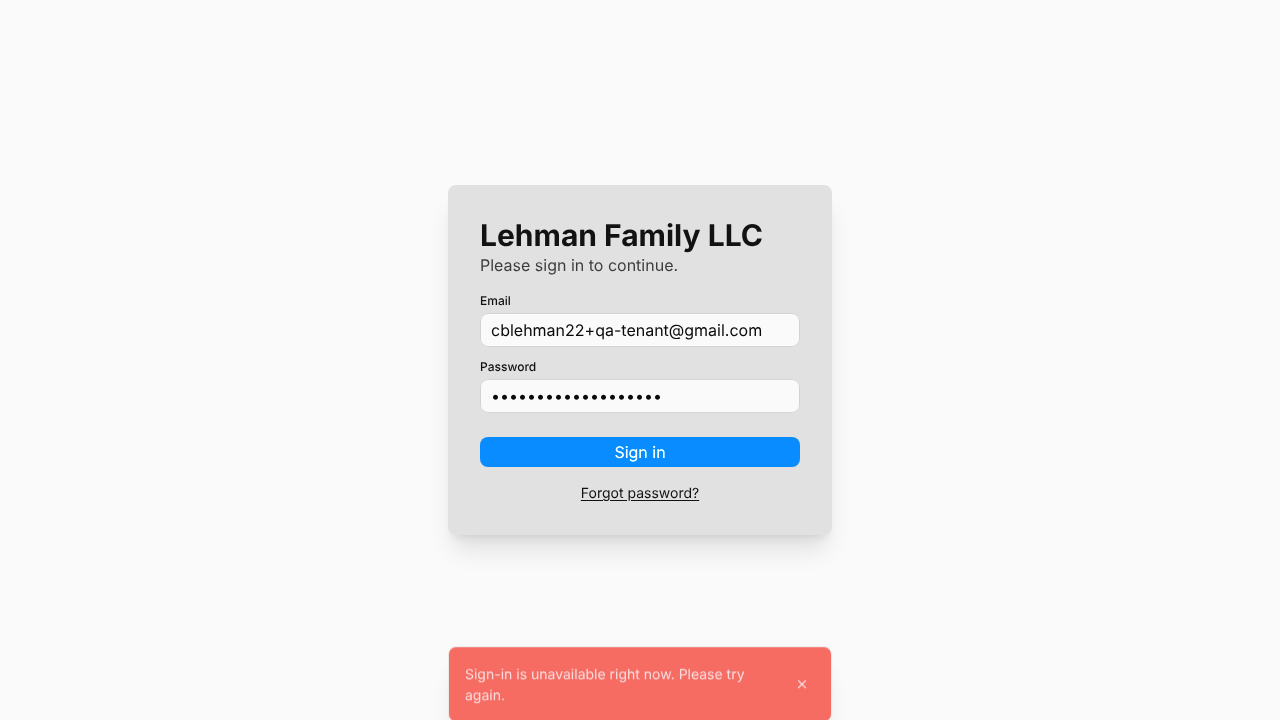
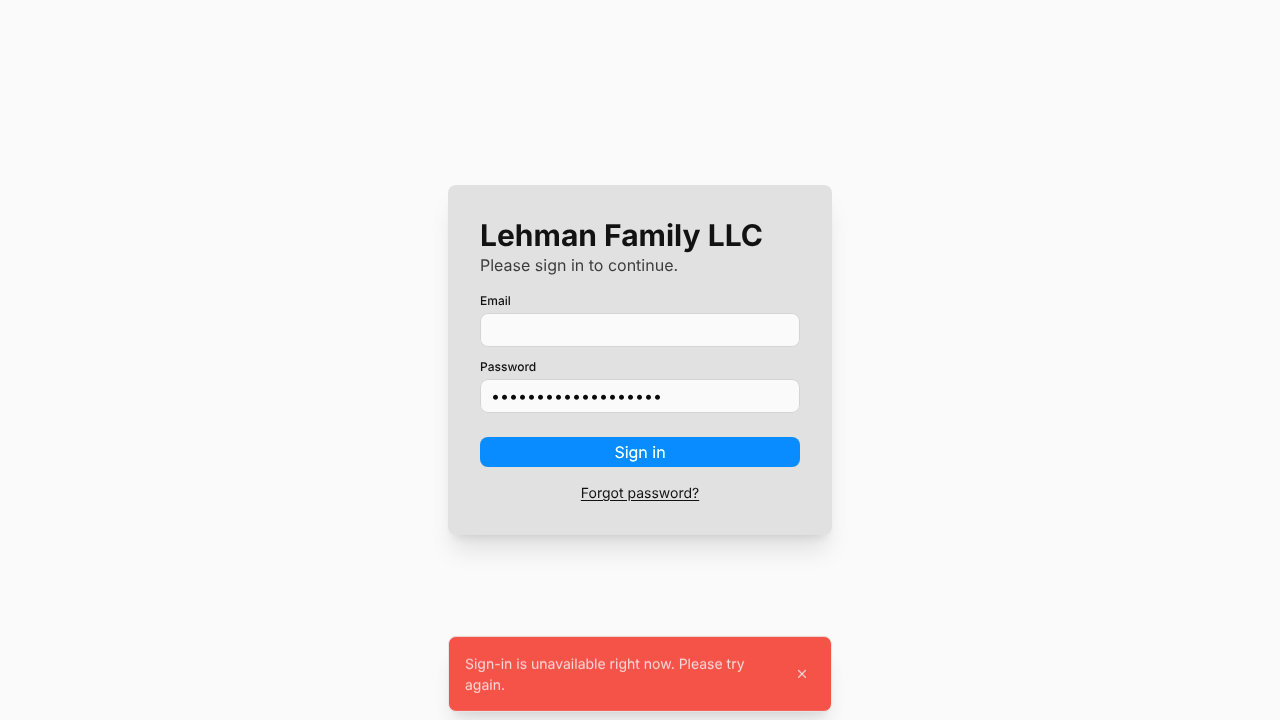
QA evidence cycle 1: password-reset-and-signin
Claude-Session: https://claude.ai/code/session_012Ze6orux4NADLTvPMLn5eE

Changed region(s): [[0.3438, 0.8861, 0.6562, 1.0], [0.375, 0.4278, 0.5938, 0.4889]]

diff --git a/tests/qa/password-reset-and-signin/authentication.spec.ts b/tests/qa/password-reset-and-signin/authentication.spec.ts
@@ -1,7 +1,16 @@
 import { test, expect, type Page } from '@playwright/test';
 
 const SHOTS = 'openspec/changes/password-reset-and-signin/qa/screenshots';
-const shot = (page: Page, name: string) => page.screenshot({ path: `${SHOTS}/${name}.png` });
+// Never capture QA account values: hide the contents of any input holding the QA emails/passwords.
+const shot = async (page: Page, name: string) => {
+	const secrets = [process.env.QA_ADMIN_EMAIL, process.env.QA_TENANT_EMAIL].filter(Boolean) as string[];
+	await page.evaluate((vals) => {
+		document.querySelectorAll('input').forEach((i) => {
+			if (vals.includes((i as HTMLInputElement).value)) (i as HTMLInputElement).style.color = 'transparent';
+		});
+	}, secrets).catch(() => undefined);
+	await page.screenshot({ path: `${SHOTS}/${name}.png` });
+};
 const runId = Date.now().toString(36);
 const unknown = (tag: string) => `qa-${tag}-${runId}@example.com`;
 
@@ -31,7 +40,8 @@ async function signInUi(page: Page, email: string, password: string) {
 test.describe('session establishment', () => {
 	test('Successful sign-in + Cookie lifetime (admin)', async ({ page, context }) => {
 		await signInUi(page, need('QA_ADMIN_EMAIL'), need('QA_ADMIN_PASSWORD'));
-		await page.waitForURL((u) => u.pathname === '/', { timeout: 20000 });
+		// '/' may redirect an admin onward to their home (/admin); the sign-in page must be left.
+		await page.waitForURL((u) => u.pathname === '/' || u.pathname.startsWith('/admin'), { timeout: 20000 });
 		const c = (await context.cookies()).find((x) => x.name === '__session');
 		expect(c).toBeTruthy();
 		expect(c!.httpOnly).toBe(true);
@@ -56,6 +66,7 @@ test.describe('session establishment', () => {
 
 	test('Invalid credentials', async ({ page }) => {
 		await signInUi(page, need('QA_TENANT_EMAIL'), 'Wrong-password-1!');
+		await page.waitForTimeout(500);
 		await expect(page.getByText(MSG.wrong)).toBeVisible({ timeout: 15000 });
 		await expect(page).toHaveURL(/\/signin/);
 		await shot(page, 'authentication-invalid-credentials');
@@ -201,8 +212,9 @@ test.describe('forgot page', () => {
 		await expect(page).toHaveURL(/\/forgot$/);
 		await page.getByTitle('Email').fill(unknown('forgot'));
 		await page.getByRole('button', { name: 'Send reset link' }).click();
-		await expect(page.getByText(MSG.sent)).toBeVisible({ timeout: 15000 });
+		await page.waitForTimeout(4000);
 		await shot(page, 'forgot-request-from-the-sign-in-page');
+		await expect(page.getByText(MSG.sent)).toBeVisible({ timeout: 15000 });
 	});
 
 	test.describe('without JavaScript', () => {
